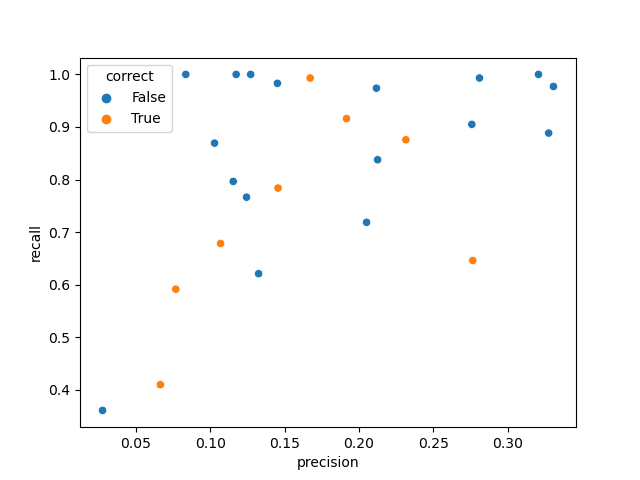
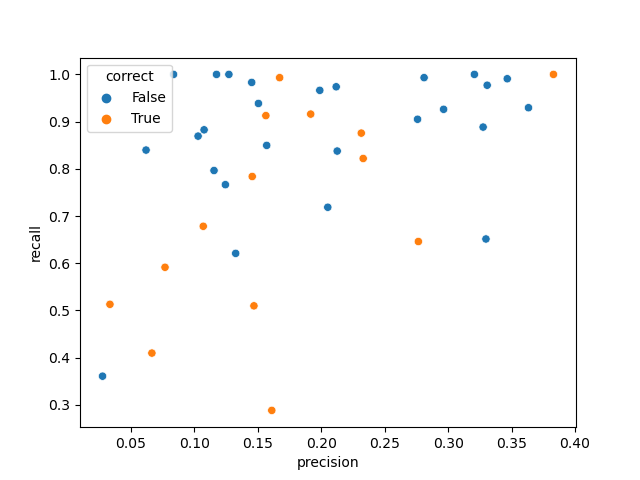
update

diff --git a/source/ligand_site/usage/test.py b/source/ligand_site/usage/test.py
@@ -1,5 +1,6 @@
 import binding
 
-pdb='3AYI_AB_'
+pdb='2VRB_AB_'
+#pdb='3AYI_AB_'
 #pdb='1C75_A_'
 binding.predict(pdb)
